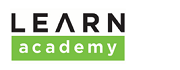
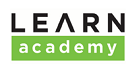
added edu-img class

Changed region(s): [[0.058, 0.1714, 0.9275, 0.8857]]

diff --git a/index.html b/index.html
@@ -335,7 +335,7 @@
                                     <p>I am constantly going out of my way to learn new things and develop new skills, and I consider myself a lifetime learner. As such I've formally studied a wide variety of subjects, from Sanskrit to multi-threaded Java applications.</p>
                                 </div>
                                 <div class="education-info">
-                                    <img class="img-responsive" src="images/education/learn.PNG" alt="Image">
+                                    <img class="img-responsive edu-img" src="images/education/learn.PNG" alt="Image">
                                     <h5>Full Stack Web Development</h5>
                                     <p id="no-vertical-margin5"><i>San Diego, CA</i></p>
                                     <h7 >March 2017 - July 2017</h7>
@@ -347,7 +347,7 @@
                                 </div>
                                 <hr>
                                 <div class="education-info">
-                                    <img class="img-responsive" src="images/education/ucsd.jpg" alt="Image">
+                                    <img class="img-responsive edu-img" src="images/education/ucsd.jpg" alt="Image">
                                     <h5>Java Programming Certificate</h5>
                                     <p id="no-vertical-margin6"><i>San Diego, CA</i></p>
                                     <h7>July 2016 - August 2017</h7>
@@ -364,7 +364,7 @@
                                 </div>
                                 <hr>
                                 <div class="education-info">
-                                    <img class="img-responsive" src="images/education/penn.jpg" alt="Image">
+                                    <img class="img-responsive edu-img" src="images/education/penn.jpg" alt="Image">
                                     <h5>Bachelor of Arts, Anthropology</h5>
                                     <p id="no-vertical-margin7"><i>Philadelphia, PA</i></p>
                                     <h7>2009 - 2013</h7>

diff --git a/css/mystyling.css b/css/mystyling.css
@@ -46,6 +46,10 @@
   margin-top: 5%;
 }
 
+.edu-img {
+  border: 2px solid black;
+}
+
 #prof-logo {
   border-radius: 50%;
 }
